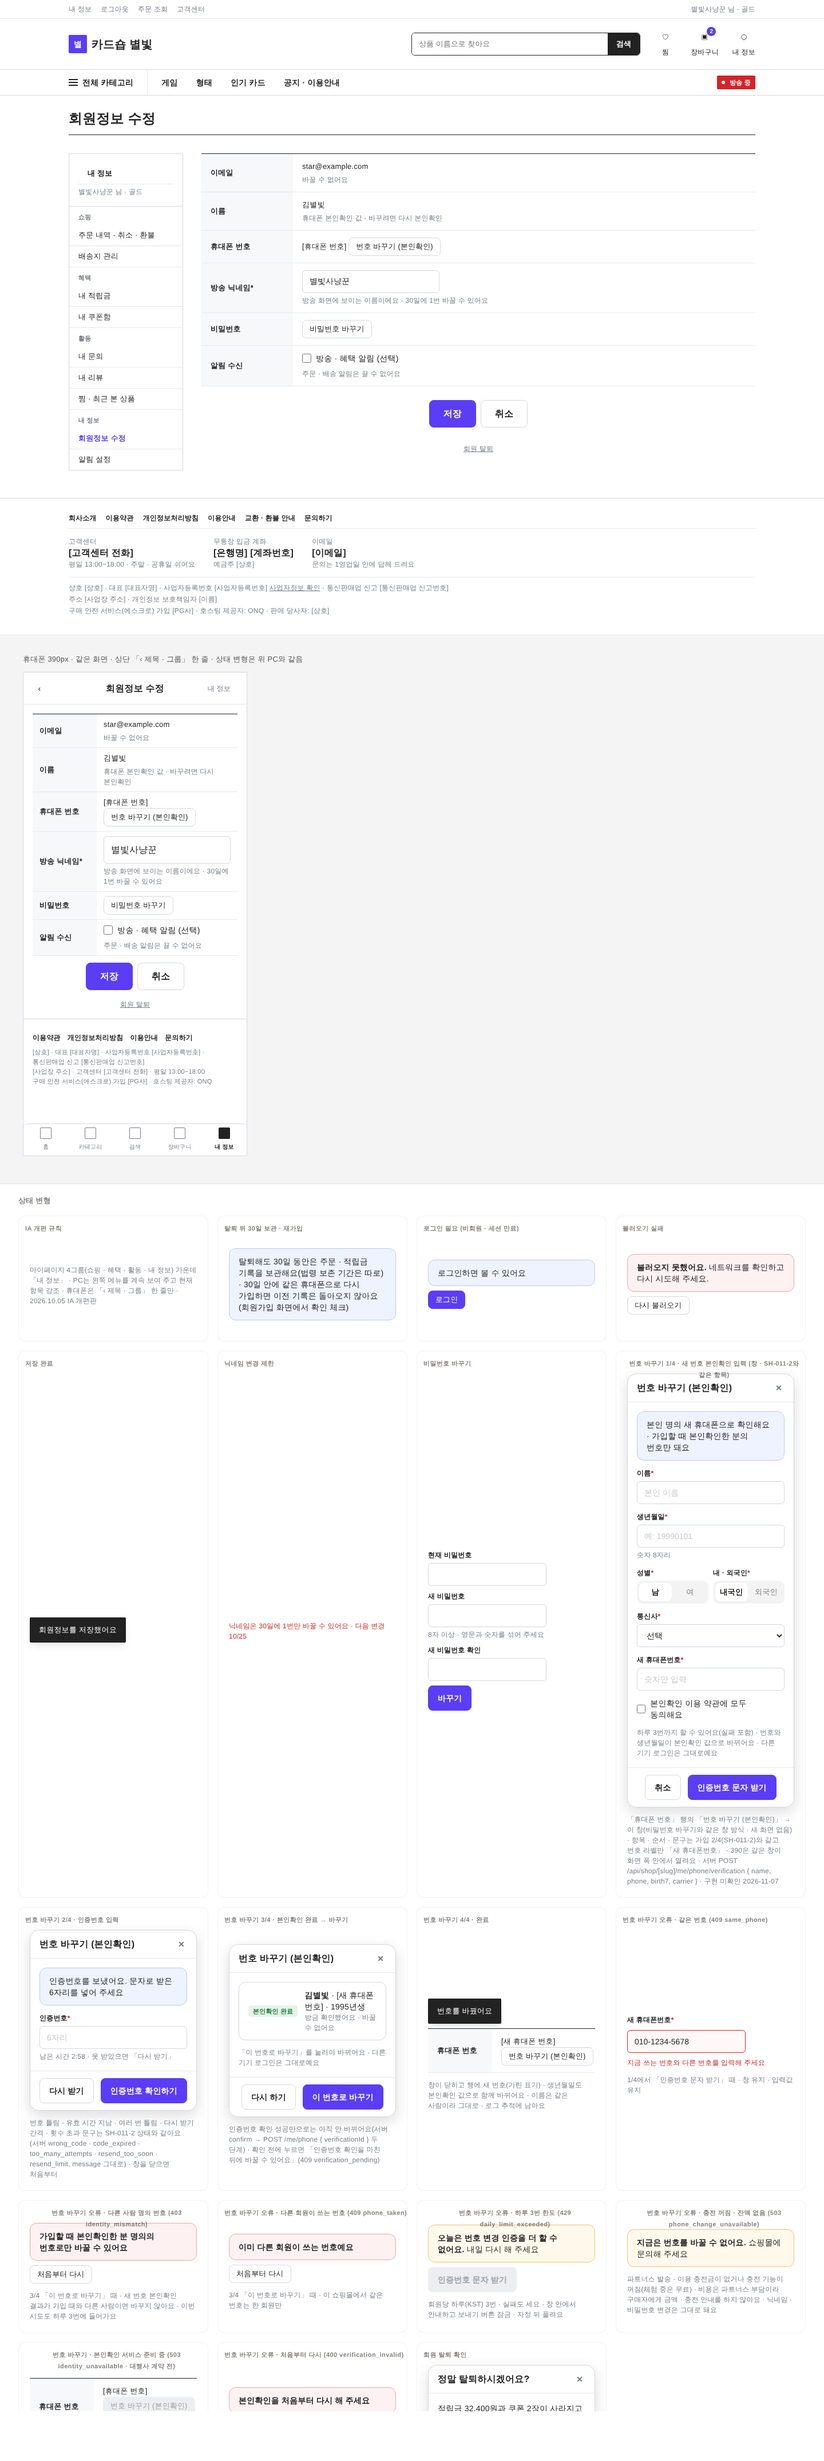
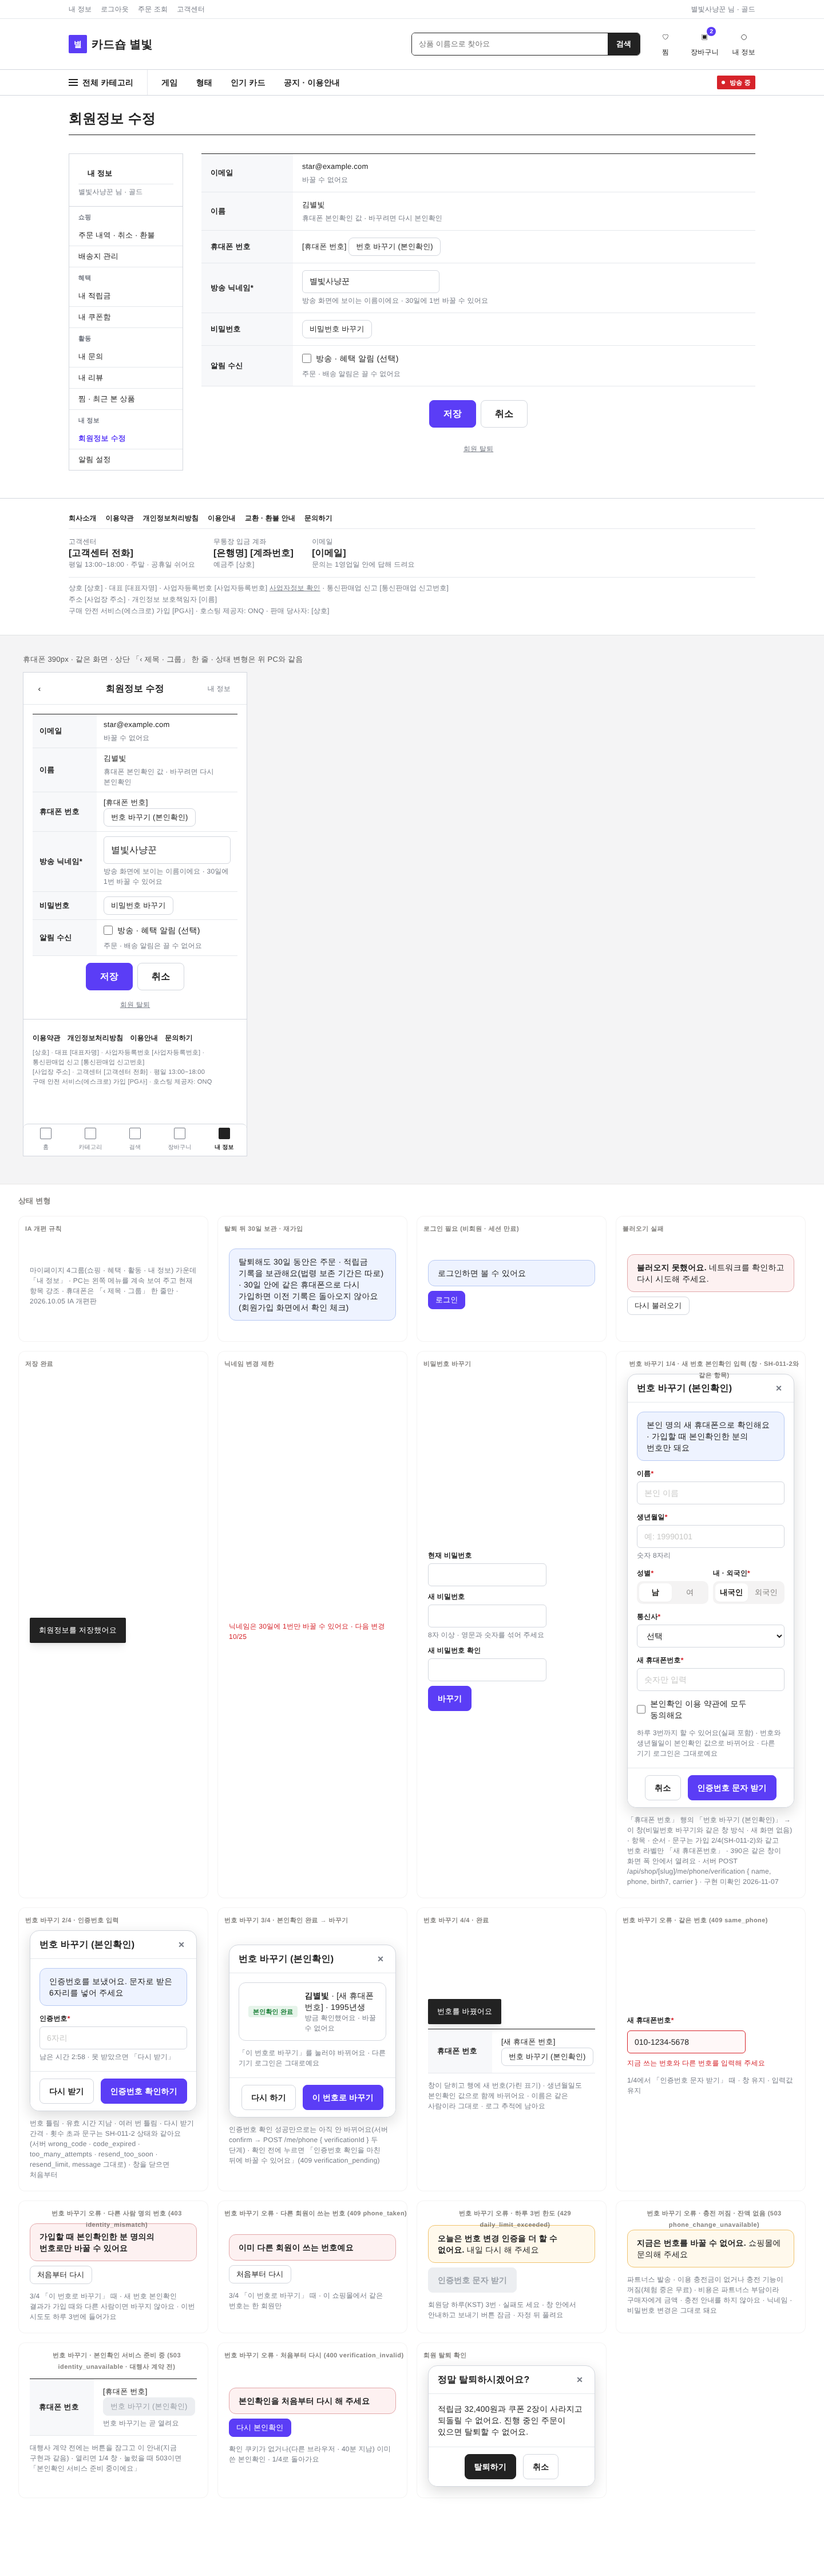
design(project): SH-024-IA 미리보기 높이 4300→4500 · 증거 재생성 (Codex #1369)
Claude-Session: https://claude.ai/code/session_01VgTwBky9tKGWHcZugUAu3c

diff --git a/design/project/SH-024-IA.dc.html b/design/project/SH-024-IA.dc.html
@@ -20,7 +20,7 @@
 </div>
 </div>
 </x-dc>
-<script type="text/x-dc" data-dc-script data-props='{"$preview":{"width":1440,"height":4300}}'>
+<script type="text/x-dc" data-dc-script data-props='{"$preview":{"width":1440,"height":4500}}'>
 class Component extends DCLogic { renderVals() { return {}; } }
 </script>
 </body>
